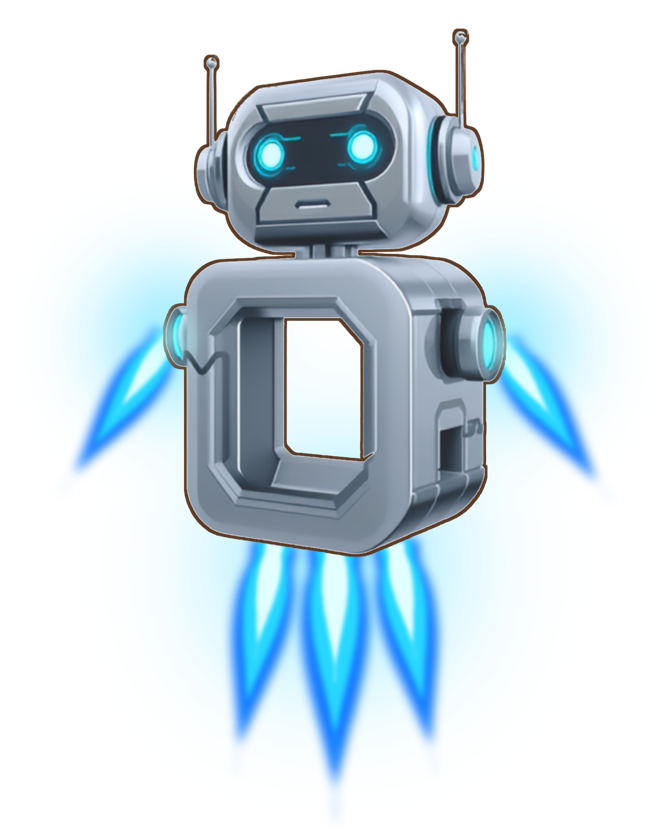
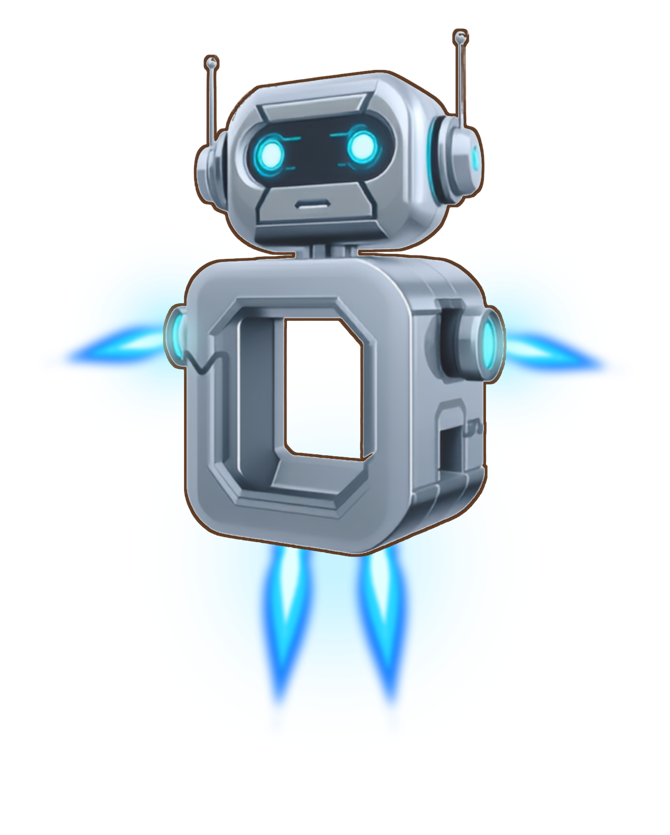
R kapağı: sade alevler, başlık önizlemesi

Changed region(s): [[0.3284, 0.6228, 0.6866, 0.9653], [0.0896, 0.2802, 0.2985, 0.5605], [0.6866, 0.3114, 0.8955, 0.5916]]

diff --git a/gorseller/r/OKU-BENI.md b/gorseller/r/OKU-BENI.md
@@ -33,3 +33,5 @@ Uçan gerçek Dijo şeffaf PNG: gorseller/dijo-gercek/dijo-ucan-seffaf.png (yan 
 - KAPAK: kapak-ucan-dijo.jpg (gerçek Dijo uçuyor; yanlardan ve alttan belirgin mavi alev). Sahne görsellerinden YALNIZCA kapakta Dijo var.
 - Roket metni: metin-roket-robotsuz.jpg · Kar metni: metin-kar-robotsuz.jpg · Nar: metin-nar.jpg · 3 Aralık: 3-aralik-el-ele.jpg (hiçbirinde robot yok). metin-*-ucan-dijo.jpg KULLANILMAZ.
 - Fasikül içinde Dijo yalnızca plandaki öğelerde: köşedeki şarj çubuğu, Dijo'nun antenlerinde heceler, Dijo'nun ekranındaki görsel dikte, Dijo'nun şifresi, sertifika (dijo-gercek/dijo-ucan-seffaf.png ya da logo.png).
+
+## Güncelleme (23:25): alevler sadeleşti — alttan 2 alev, kollardan yana doğru kısa alev. Kapak düzeni kapak-onizleme-baslikli.jpg'deki gibi: üst gökyüzünde büyük "R r", altında "SES FASİKÜLÜ", mor çerçeve. Kapak için başlıksız kapak-ucan-dijo.jpg kullanılır, başlık sayfada yazılır.
